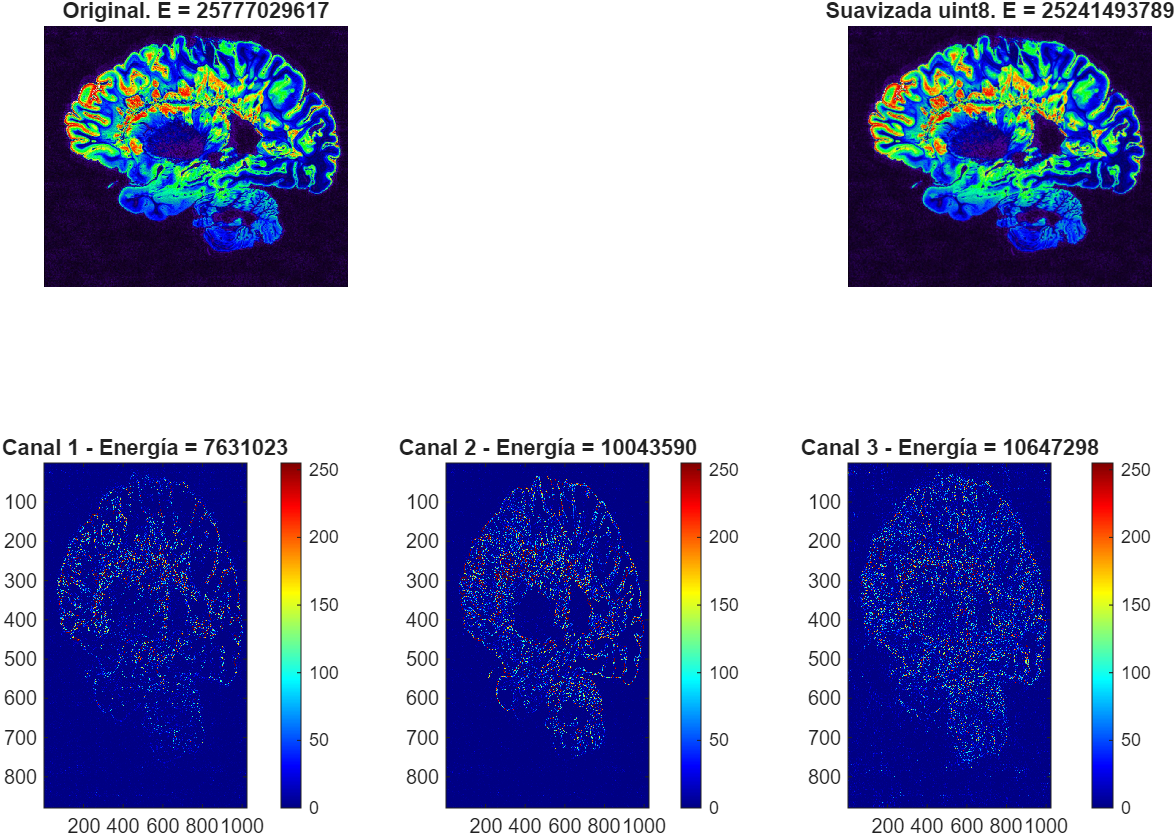
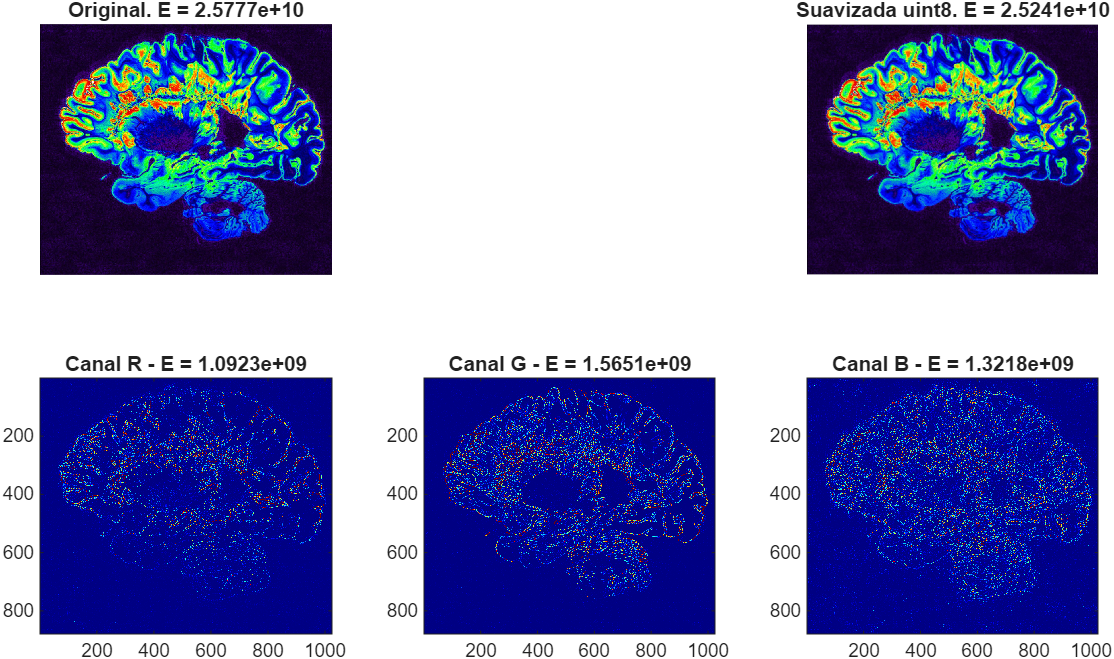
Linear Filtering updates

diff --git a/ImageAnalysis/LinearFiltering.md b/ImageAnalysis/LinearFiltering.md
@@ -167,9 +167,10 @@ end
 Paso 2: Cargamos la imagen
 
 ``` splus
-ima_og = imread("Imagenes_P2/MRI_pseudo_colored.jpg");
+% Obtenemos la Imagen
+ima_og = imread('Imagenes_P2/MRI_pseudo_colored.jpg');
 % Class = Double
-ima_d = double(ima_og)/255;
+ima_d = double(ima_og);
 ```
 
 Paso 3: Filtramos y calculamos sus energias
@@ -177,16 +178,15 @@ Paso 3: Filtramos y calculamos sus energias
 ``` splus
 %% Definimos el filtro
 w = (1/9)*ones(3);
-
 % Aplicamos el filtro
 ima_res_d = imfilter(ima_d, w);
-ima_res_u = uint8(ima_res_d*255);
+ima_res_u = uint8(ima_res_d);
 
 % Calculamos Energías
-E_og = sum(ima_og(:).^2);
-E_d = sum(ima_d(:).^2);
-E_res_d = (sum(ima_res_d(:).^2));
-E_res_u = sum(ima_res_u(:).^2);
+E_og = calcularEnergia(ima_og);
+E_d = calcularEnergia(ima_d);
+E_res_d = calcularEnergia(ima_res_d);
+E_res_u = calcularEnergia(ima_res_u);
 
 % Calculamos la diferencia de cuadrados
 % Inicializamos la matriz de diferencias
@@ -199,33 +199,33 @@ Paso 4: Visualización por canal entre imagen original y filtrada
 ``` splus
 % UINT8
 figure;
-subplot(2,3,1), imshow(ima_og), title(['Original. E = ', num2str(E_og)]);
-subplot(2,3,3), imshow(ima_res_u), title(['Suavizada. E = ', num2str(E_res_u)]);
+subplot(2,3,1), imshow(ima_og), title(sprintf('Original. E = %.4e', E_og));
+subplot(2,3,3), imshow(ima_res_u), title(sprintf('Suavizada uint8. E = %.4e', E_res_u));
+names = {'R','G','B'};
 for c = 1:3
     % Energía por canal
-    E_c = sum(diff_sq_u(:,:,c), 'all');
+    E_c = calcularEnergia(diff_sq_u(:,:,c));
     % Visualización
     subplot(2,3,c+3);
-    imagesc(double(diff_sq_u(:,:,c)));
-    colormap('jet'); 
-    colorbar;
-    title(['Canal ', num2str(c), ' - Energía = ', num2str(E_c)]);
+    imagesc(diff_sq_u(:,:,c));
+    colormap('jet');
+    title(sprintf('Canal %s - E = %.4e', names{c}, E_c));
 end
 exportgraphics(gcf, 'results/ej5_1.png', 'Resolution',150);
 
 % DOUBLE
 figure;
-subplot(2,3,1), imshow(ima_d), title(['Original. E = ', num2str(E_d)]);
-subplot(2,3,3), imshow(ima_res_d), title(['Suavizada. E = ', num2str(E_res_d)]);
+subplot(2,3,1), imshow(ima_og), title(sprintf('Original. E = %.4e', E_og));
+subplot(2,3,3), imshow(ima_res_d/255), title(sprintf('Suavizada double. E = %.4e', E_res_d));
 for c = 1:3
     % Energía por canal
-    E_c = sum(diff_sq_d(:,:,c), 'all');
+    E_c = calcularEnergia(diff_sq_d(:,:,c));
     % Visualización
     subplot(2,3,c+3);
-    imagesc(double(diff_sq_d(:,:,c)));
-    colormap('jet'); 
-    colorbar;
-    title(['Canal ', num2str(c), ' - Energía = ', num2str(E_c)]);
+    imagesc(diff_sq_d(:,:,c));
+    colormap('jet');
+    title(sprintf('Canal %s - E = %.4e', names{c}, E_c));
+    % ['Canal ', num2str(c), ' - Energía = ', num2str(E_c)]
 end
 exportgraphics(gcf, 'results/ej5_2.png', 'Resolution',150);
 ```
